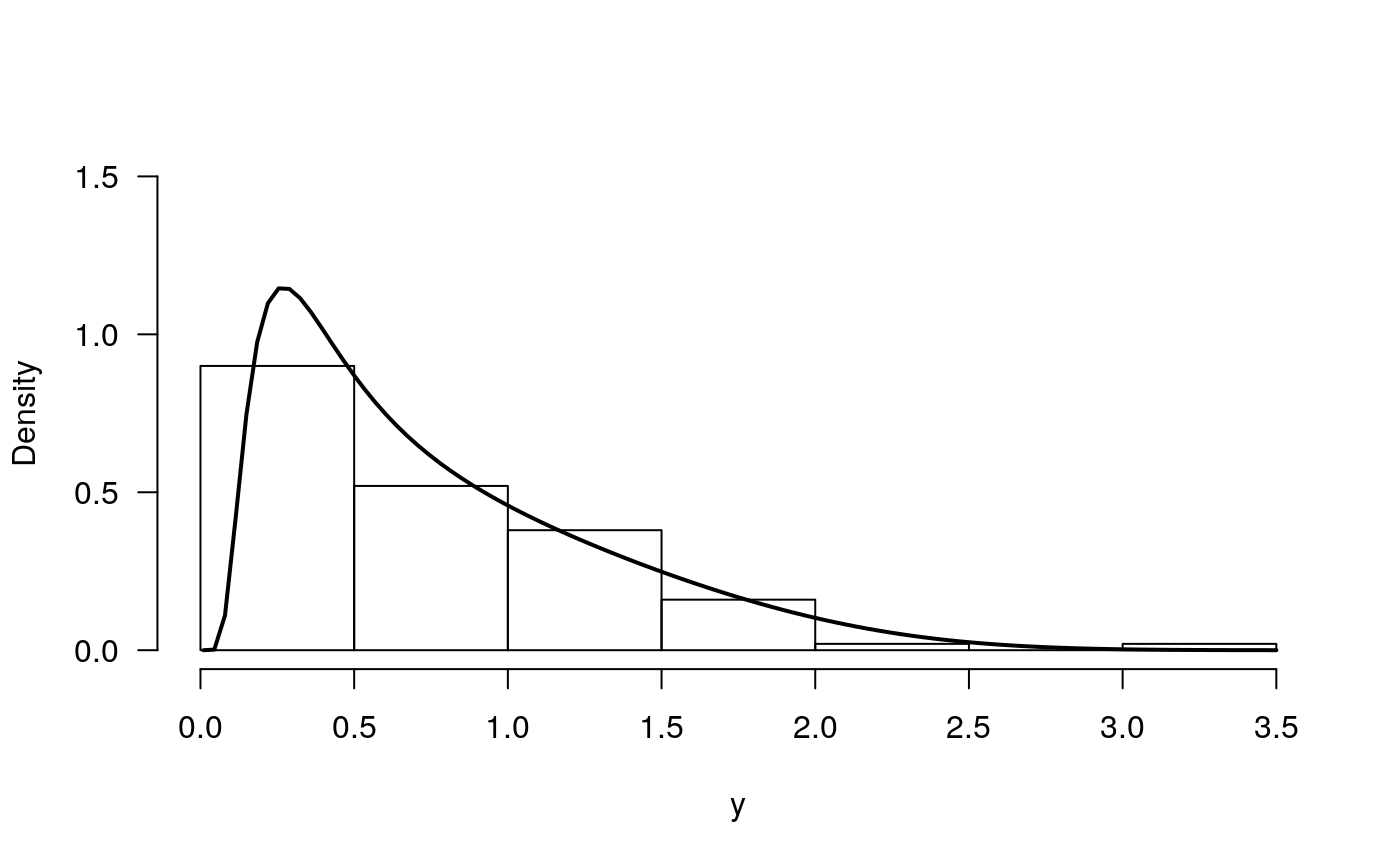
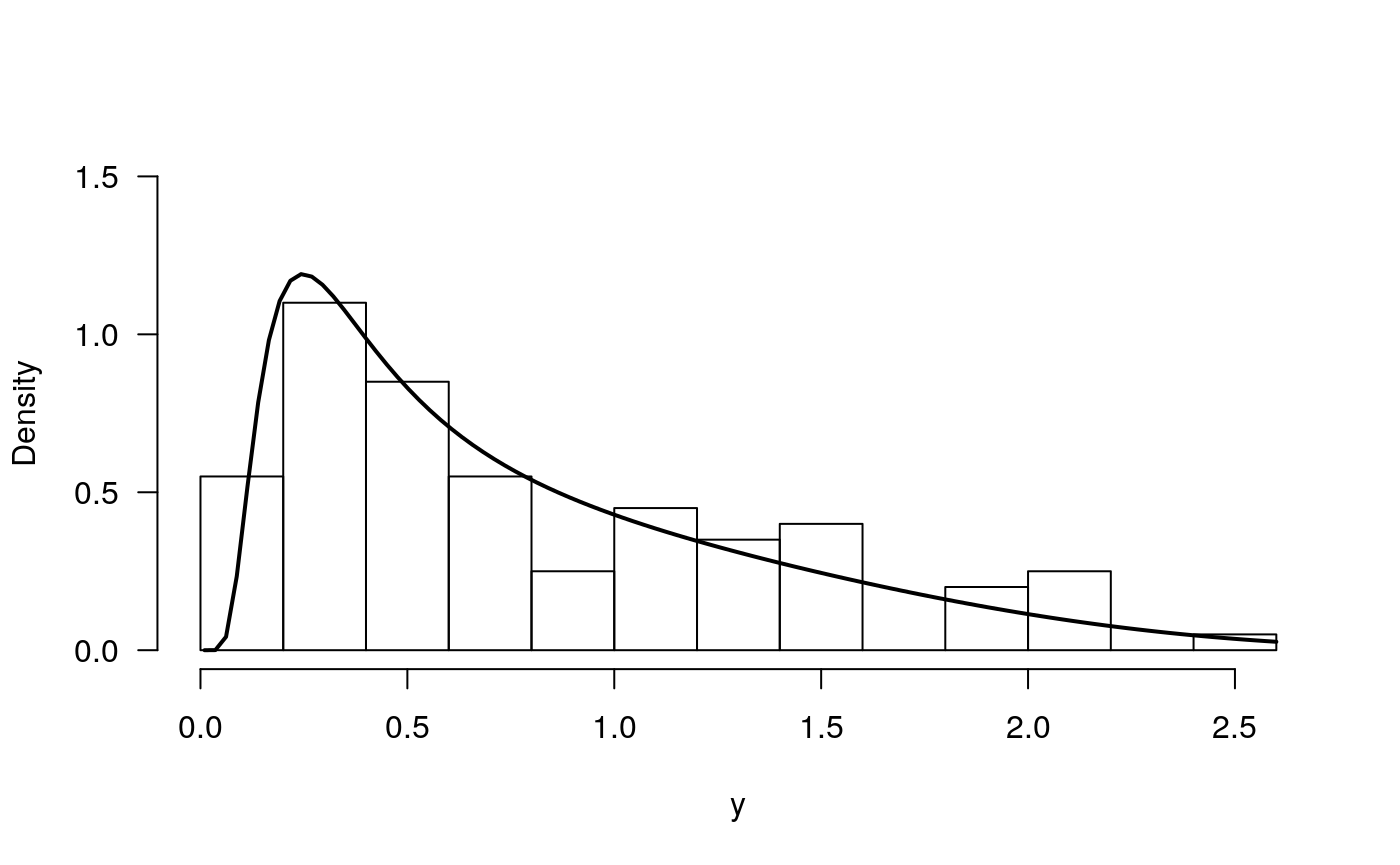
Se corrigio el grafico de IW

diff --git a/docs/reference/dIW.html b/docs/reference/dIW.html
@@ -202,8 +202,8 @@ generates random deviates and <code>hIW</code> gives the hazard function.</p>
 <span class='fu'><a href='https://www.rdocumentation.org/packages/graphics/topics/curve'>curve</a></span>(<span class='fu'>pIW</span>(<span class='no'>x</span>, <span class='kw'>mu</span><span class='kw'>=</span><span class='fl'>5</span>, <span class='kw'>sigma</span><span class='kw'>=</span><span class='fl'>2.5</span>), <span class='kw'>from</span><span class='kw'>=</span><span class='fl'>0</span>, <span class='kw'>add</span><span class='kw'>=</span><span class='fl'>TRUE</span>, <span class='kw'>col</span><span class='kw'>=</span><span class='st'>"red"</span>)
 
 <span class='co'>## The random function</span>
-<span class='fu'><a href='https://www.rdocumentation.org/packages/graphics/topics/hist'>hist</a></span>(<span class='fu'>rIW</span>(<span class='kw'>n</span><span class='kw'>=</span><span class='fl'>10000</span>, <span class='kw'>mu</span><span class='kw'>=</span><span class='fl'>5</span>, <span class='kw'>sigma</span><span class='kw'>=</span><span class='fl'>2.5</span>), <span class='kw'>freq</span><span class='kw'>=</span><span class='fl'>FALSE</span>, <span class='kw'>from</span><span class='kw'>=</span><span class='fl'>0</span>,
-  <span class='kw'>xlab</span><span class='kw'>=</span><span class='st'>"x"</span>, <span class='kw'>las</span><span class='kw'>=</span><span class='fl'>1</span>, <span class='kw'>main</span><span class='kw'>=</span><span class='st'>""</span>)</div><div class='output co'>#&gt; <span class='warning'>Warning: "from" is not a graphical parameter</span></div><div class='output co'>#&gt; <span class='warning'>Warning: "from" is not a graphical parameter</span></div><div class='output co'>#&gt; <span class='warning'>Warning: "from" is not a graphical parameter</span></div><div class='output co'>#&gt; <span class='warning'>Warning: "from" is not a graphical parameter</span></div><div class='input'><span class='fu'><a href='https://www.rdocumentation.org/packages/graphics/topics/curve'>curve</a></span>(<span class='fu'>dIW</span>(<span class='no'>x</span>, <span class='kw'>mu</span><span class='kw'>=</span><span class='fl'>5</span>, <span class='kw'>sigma</span><span class='kw'>=</span><span class='fl'>2.5</span>), <span class='kw'>from</span><span class='kw'>=</span><span class='fl'>0</span>, <span class='kw'>add</span><span class='kw'>=</span><span class='fl'>TRUE</span>, <span class='kw'>col</span><span class='kw'>=</span><span class='st'>"red"</span>)</div><div class='img'><img src='dIW-3.png' alt='' width='700' height='433' /></div><div class='input'>
+<span class='fu'><a href='https://www.rdocumentation.org/packages/graphics/topics/hist'>hist</a></span>(<span class='fu'>rIW</span>(<span class='kw'>n</span><span class='kw'>=</span><span class='fl'>10000</span>, <span class='kw'>mu</span><span class='kw'>=</span><span class='fl'>5</span>, <span class='kw'>sigma</span><span class='kw'>=</span><span class='fl'>2.5</span>), <span class='kw'>freq</span><span class='kw'>=</span><span class='fl'>FALSE</span>, <span class='kw'>xlim</span><span class='kw'>=</span><span class='fu'><a href='https://www.rdocumentation.org/packages/base/topics/c'>c</a></span>(<span class='fl'>0</span>,<span class='fl'>60</span>),
+  <span class='kw'>xlab</span><span class='kw'>=</span><span class='st'>"x"</span>, <span class='kw'>las</span><span class='kw'>=</span><span class='fl'>1</span>, <span class='kw'>main</span><span class='kw'>=</span><span class='st'>""</span>)</div><div class='input'><span class='fu'><a href='https://www.rdocumentation.org/packages/graphics/topics/curve'>curve</a></span>(<span class='fu'>dIW</span>(<span class='no'>x</span>, <span class='kw'>mu</span><span class='kw'>=</span><span class='fl'>5</span>, <span class='kw'>sigma</span><span class='kw'>=</span><span class='fl'>2.5</span>), <span class='kw'>from</span><span class='kw'>=</span><span class='fl'>0</span>, <span class='kw'>add</span><span class='kw'>=</span><span class='fl'>TRUE</span>, <span class='kw'>col</span><span class='kw'>=</span><span class='st'>"red"</span>)</div><div class='img'><img src='dIW-3.png' alt='' width='700' height='433' /></div><div class='input'>
 <span class='co'>## The Hazard function</span>
 <span class='fu'><a href='https://www.rdocumentation.org/packages/graphics/topics/curve'>curve</a></span>(<span class='fu'>hIW</span>(<span class='no'>x</span>, <span class='kw'>mu</span><span class='kw'>=</span><span class='fl'>5</span>, <span class='kw'>sigma</span><span class='kw'>=</span><span class='fl'>2.5</span>), <span class='kw'>from</span><span class='kw'>=</span><span class='fl'>0</span>, <span class='kw'>to</span><span class='kw'>=</span><span class='fl'>15</span>, <span class='kw'>ylim</span><span class='kw'>=</span><span class='fu'><a href='https://www.rdocumentation.org/packages/base/topics/c'>c</a></span>(<span class='fl'>0</span>, <span class='fl'>0.9</span>),
    <span class='kw'>col</span><span class='kw'>=</span><span class='st'>"red"</span>, <span class='kw'>ylab</span><span class='kw'>=</span><span class='st'>"Hazard function"</span>, <span class='kw'>las</span><span class='kw'>=</span><span class='fl'>1</span>)</div><div class='img'><img src='dIW-4.png' alt='' width='700' height='433' /></div></pre>

diff --git a/docs/articles/EW_distribution.html b/docs/articles/EW_distribution.html
@@ -79,7 +79,7 @@
       <h1>EW distribution</h1>
                         <h4 class="author">Freddy Hernandez</h4>
             
-            <h4 class="date">2019-02-13</h4>
+            <h4 class="date">2019-02-14</h4>
       
       
       <div class="hidden name"><code>EW_distribution.Rmd</code></div>
@@ -201,13 +201,13 @@ mod &lt;-<span class="st"> </span><span class="kw"><a href="https://www.rdocumen
 <p>To obtain the fitted values for <span class="math inline">\(\mu\)</span>, <span class="math inline">\(\sigma\)</span> and <span class="math inline">\(\nu\)</span> we use the inverse link function <span class="math inline">\(\log()\)</span>.</p>
 <div class="sourceCode"><pre class="sourceCode r"><code class="sourceCode r"><span class="kw"><a href="https://www.rdocumentation.org/packages/base/topics/Log">exp</a></span>(<span class="kw"><a href="https://www.rdocumentation.org/packages/stats/topics/coef">coef</a></span>(mod, <span class="dt">what=</span><span class="st">'mu'</span>))
 ## (Intercept) 
-##    4.383448
+##    4.735843
 <span class="kw"><a href="https://www.rdocumentation.org/packages/base/topics/Log">exp</a></span>(<span class="kw"><a href="https://www.rdocumentation.org/packages/stats/topics/coef">coef</a></span>(mod, <span class="dt">what=</span><span class="st">'sigma'</span>))
 ## (Intercept) 
-##    0.705717
+##   0.6625752
 <span class="kw"><a href="https://www.rdocumentation.org/packages/base/topics/Log">exp</a></span>(<span class="kw"><a href="https://www.rdocumentation.org/packages/stats/topics/coef">coef</a></span>(mod, <span class="dt">what=</span><span class="st">'nu'</span>))
 ## (Intercept) 
-##    4.301176</code></pre></div>
+##    4.685373</code></pre></div>
 <p>The results show that estimated parameters are close to the true parameters <span class="math inline">\(\mu\)</span>, <span class="math inline">\(\sigma\)</span> and <span class="math inline">\(\nu\)</span>.</p>
 <p>In the next figure we have the histogram for the data and the fitted density. We note that the fitted density explains better the observed data.</p>
 <div class="sourceCode"><pre class="sourceCode r"><code class="sourceCode r"><span class="kw"><a href="https://www.rdocumentation.org/packages/graphics/topics/hist">hist</a></span>(y, <span class="dt">freq=</span><span class="ot">FALSE</span>, <span class="dt">main=</span><span class="st">''</span>, <span class="dt">ylim=</span><span class="kw"><a href="https://www.rdocumentation.org/packages/base/topics/c">c</a></span>(<span class="dv">0</span>, <span class="fl">1.8</span>))
@@ -292,13 +292,13 @@ y &lt;-<span class="st"> </span><span class="kw"><a href="../reference/dEW.html"
 <p>and the results can be found with</p>
 <div class="sourceCode"><pre class="sourceCode r"><code class="sourceCode r"><span class="kw"><a href="https://www.rdocumentation.org/packages/stats/topics/coef">coef</a></span>(mod, <span class="dt">what=</span><span class="st">"mu"</span>)
 ## (Intercept)          x1 
-##    2.019233   -2.414486
+##    1.952550   -3.078104
 <span class="kw"><a href="https://www.rdocumentation.org/packages/stats/topics/coef">coef</a></span>(mod, <span class="dt">what=</span><span class="st">"sigma"</span>)
 ## (Intercept)          x2 
-##    2.761274   -1.975982
+##    3.048103   -2.019708
 <span class="kw"><a href="https://www.rdocumentation.org/packages/stats/topics/coef">coef</a></span>(mod, <span class="dt">what=</span><span class="st">"nu"</span>)
 ## (Intercept) 
-##    1.177648</code></pre></div>
+##   0.6929314</code></pre></div>
 <p>We note that the estimated parameters are close to the true parameter vector <span class="math inline">\(\boldsymbol{\theta} = (2, -3, 3, -2, 2)^\top\)</span>.</p>
 </div>
   </div>

diff --git a/docs/articles/FWE_distribution.html b/docs/articles/FWE_distribution.html
@@ -79,7 +79,7 @@
       <h1>FWE distribution</h1>
                         <h4 class="author">Freddy Hernandez</h4>
             
-            <h4 class="date">2019-02-13</h4>
+            <h4 class="date">2019-02-14</h4>
       
       
       <div class="hidden name"><code>FWE_distribution.Rmd</code></div>
@@ -153,10 +153,10 @@ mod &lt;-<span class="st"> </span><span class="kw"><a href="https://www.rdocumen
 <p>To obtain the fitted values for <span class="math inline">\(\mu\)</span> and <span class="math inline">\(\sigma\)</span> we use the inverse link function <span class="math inline">\(\log()\)</span>.</p>
 <div class="sourceCode"><pre class="sourceCode r"><code class="sourceCode r"><span class="kw"><a href="https://www.rdocumentation.org/packages/base/topics/Log">exp</a></span>(<span class="kw"><a href="https://www.rdocumentation.org/packages/stats/topics/coef">coef</a></span>(mod, <span class="dt">what=</span><span class="st">'mu'</span>))
 ## (Intercept) 
-##   0.7386203
+##   0.6892439
 <span class="kw"><a href="https://www.rdocumentation.org/packages/base/topics/Log">exp</a></span>(<span class="kw"><a href="https://www.rdocumentation.org/packages/stats/topics/coef">coef</a></span>(mod, <span class="dt">what=</span><span class="st">'sigma'</span>))
 ## (Intercept) 
-##   0.5347524</code></pre></div>
+##   0.4993297</code></pre></div>
 <p>The results show that estimated parameters are close to the true parameters <span class="math inline">\(\mu\)</span> and <span class="math inline">\(\sigma\)</span>.</p>
 <p>In the next figure we have the histogram for the data and the fitted density. We note that the fitted density explains better the observed data.</p>
 <div class="sourceCode"><pre class="sourceCode r"><code class="sourceCode r"><span class="kw"><a href="https://www.rdocumentation.org/packages/graphics/topics/hist">hist</a></span>(y, <span class="dt">freq=</span><span class="ot">FALSE</span>, <span class="dt">breaks=</span><span class="dv">10</span>, <span class="dt">ylim=</span><span class="kw"><a href="https://www.rdocumentation.org/packages/base/topics/c">c</a></span>(<span class="dv">0</span>, <span class="fl">1.5</span>), <span class="dt">las=</span><span class="dv">1</span>, <span class="dt">main=</span><span class="st">''</span>)
@@ -189,10 +189,10 @@ y &lt;-<span class="st"> </span><span class="kw"><a href="../reference/dFWE.html
 <p>and the results can be found with</p>
 <div class="sourceCode"><pre class="sourceCode r"><code class="sourceCode r"><span class="kw"><a href="https://www.rdocumentation.org/packages/stats/topics/coef">coef</a></span>(mod, <span class="dt">what=</span><span class="st">"mu"</span>)
 ## (Intercept)          x1 
-##    1.214802   -3.127873
+##    1.339285   -3.122191
 <span class="kw"><a href="https://www.rdocumentation.org/packages/stats/topics/coef">coef</a></span>(mod, <span class="dt">what=</span><span class="st">"sigma"</span>)
 ## (Intercept)          x2 
-##    1.235831   -2.044425</code></pre></div>
+##    1.492391   -2.433582</code></pre></div>
 <p>We note that the estimated parameters are close to the true parameter vector <span class="math inline">\(\boldsymbol{\theta} = (1.21, -3, 1.26, -2)^\top\)</span>.</p>
 </div>
   </div>

diff --git a/docs/articles/OW_distribution.html b/docs/articles/OW_distribution.html
@@ -79,7 +79,7 @@
       <h1>OW distribution</h1>
                         <h4 class="author">Jaime Mosquera</h4>
             
-            <h4 class="date">2019-02-13</h4>
+            <h4 class="date">2019-02-14</h4>
       
       
       <div class="hidden name"><code>OW_distribution.Rmd</code></div>
